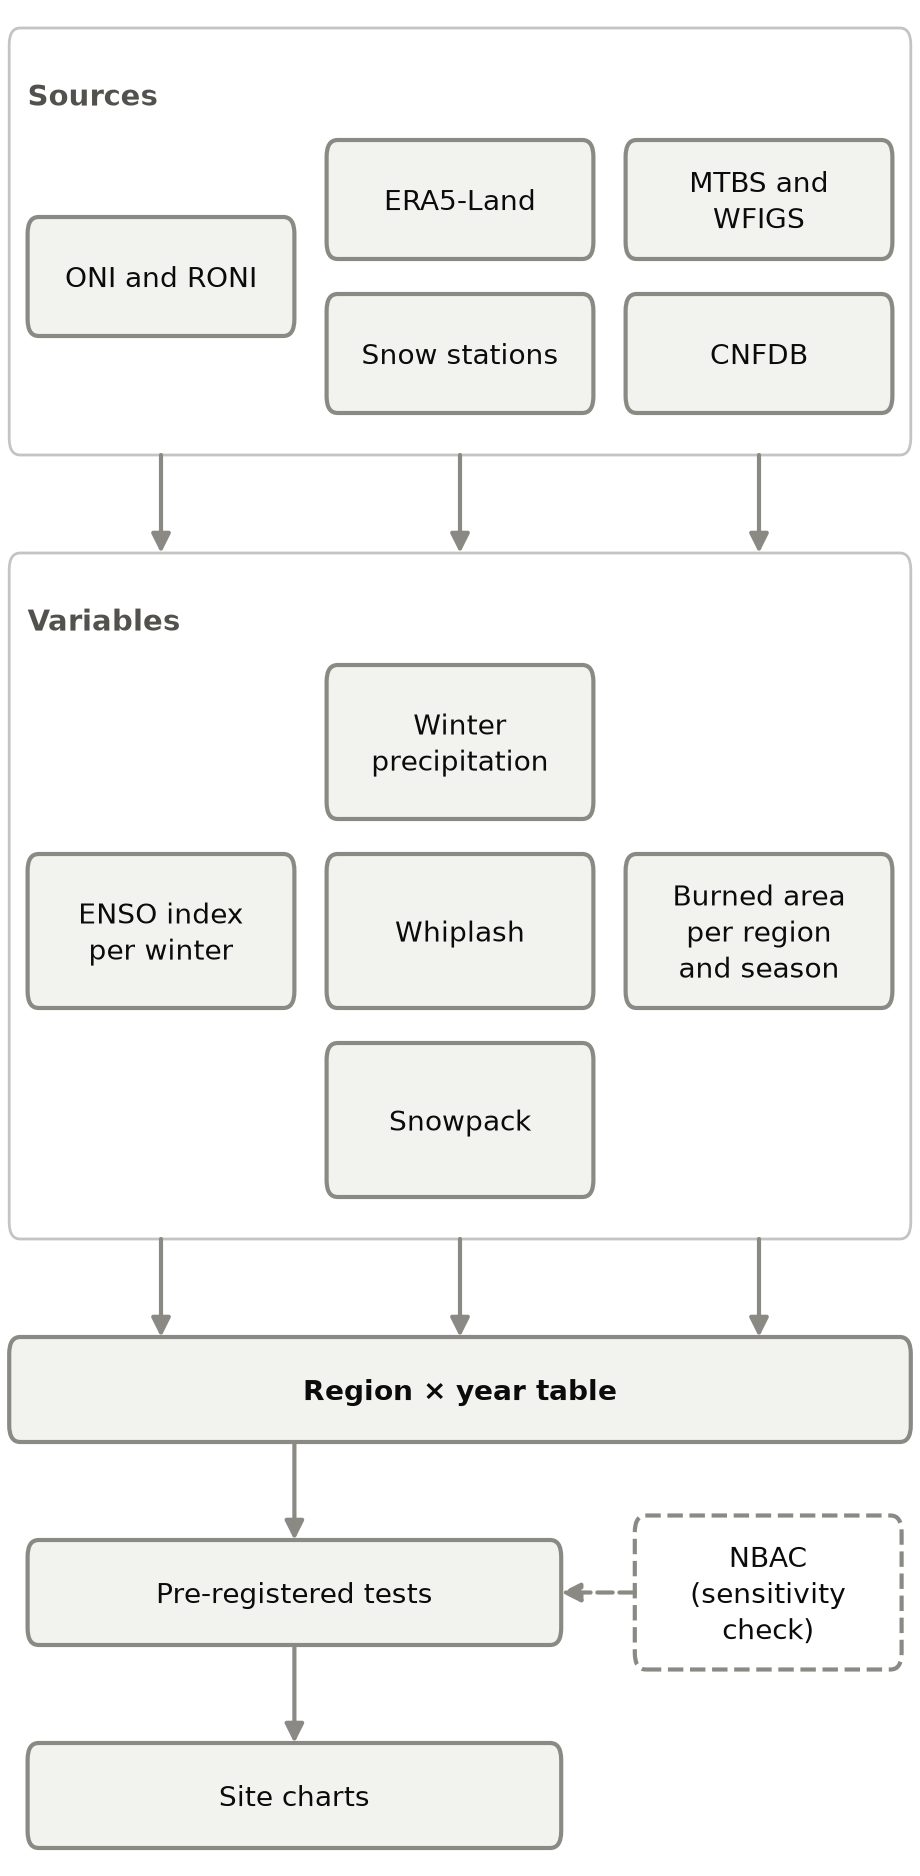
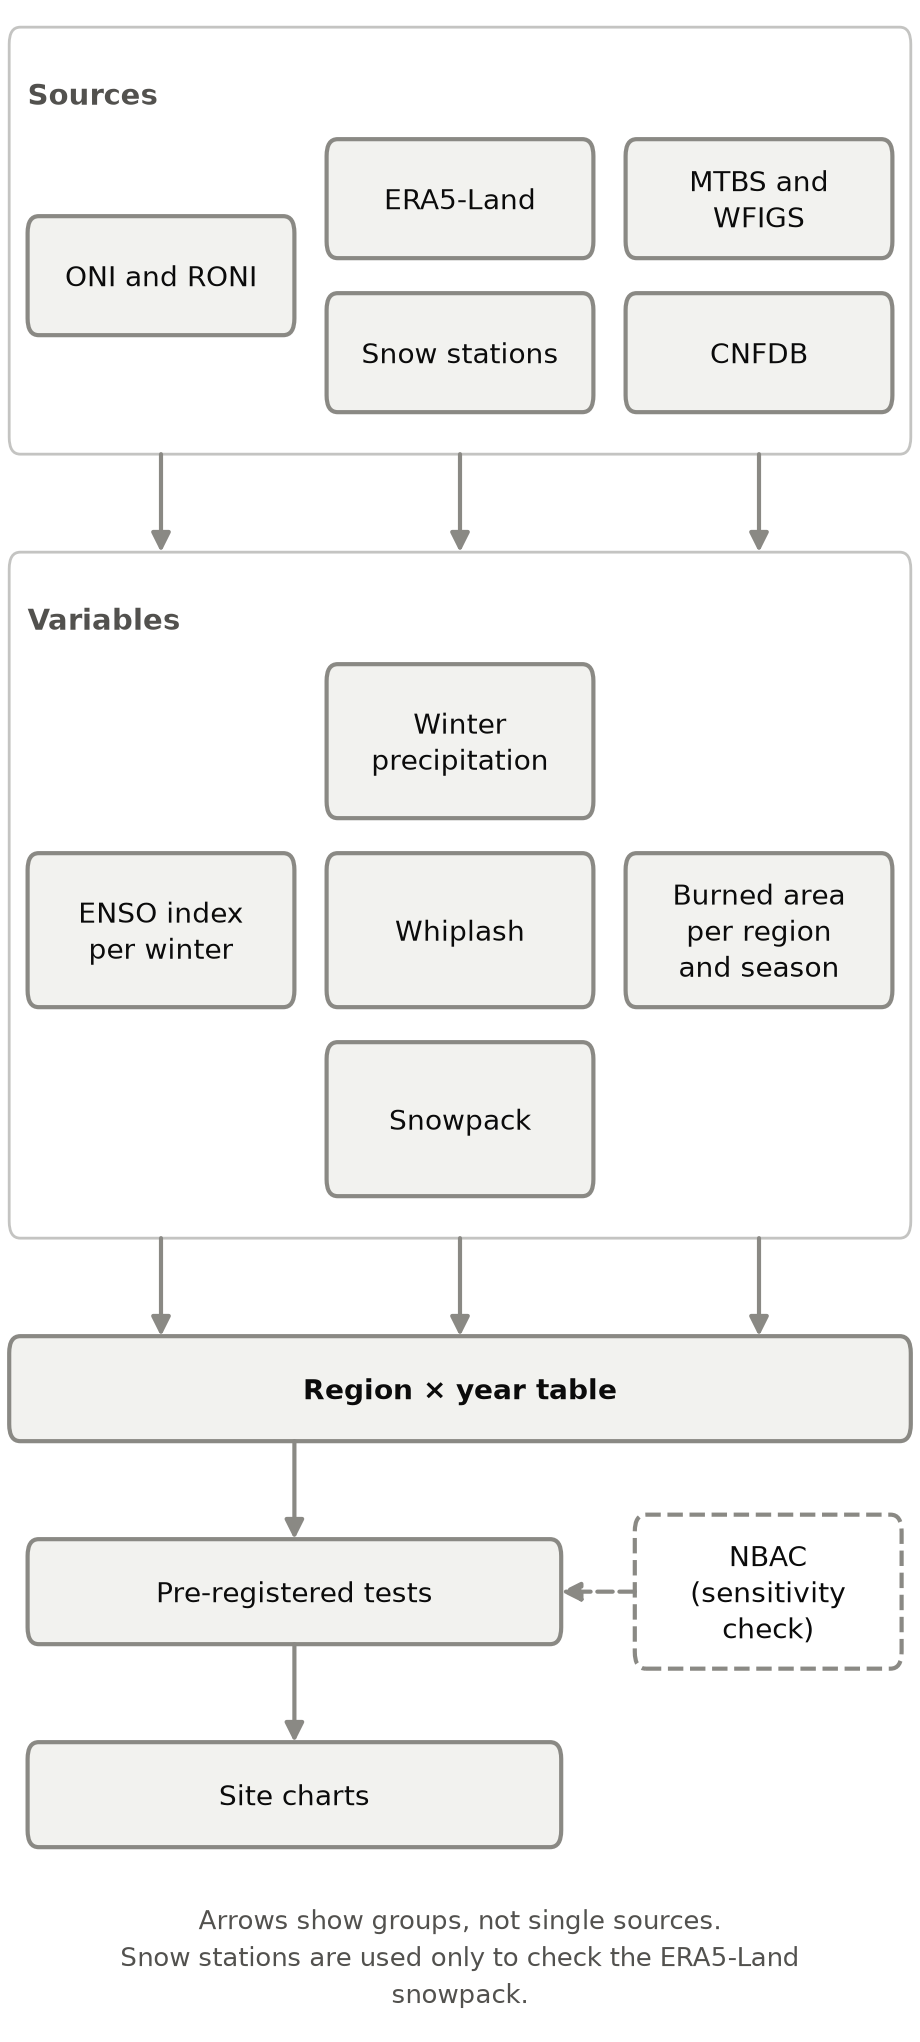
Methods flowchart: owner-approved note under the chart
Prints 'Arrows show groups, not single sources. Snow stations are used
only to check the ERA5-Land snowpack.' in both layouts; test, alt text
and DECISIONS.md entry updated.

diff --git a/src/diagrams.py b/src/diagrams.py
@@ -91,6 +91,10 @@ FLOW_COLUMNS = (
 FLOW_SPINE = ("Region × year table", "Pre-registered tests", "Site charts")
 # Drawn dashed, beside the tests it re-runs, not among the main sources.
 FLOW_SENSITIVITY = "NBAC (sensitivity check)"
+# Printed under the chart so the reading of the arrows travels with the
+# image. Wording approved by the owner, 2026-10-11.
+FLOW_NOTES = ("Arrows show groups, not single sources.",
+              "Snow stations are used only to check the ERA5-Land snowpack.")
 
 # Two layouts of the flowchart, in the same units as MECHANISM_LAYOUTS (0-100
 # across, 100 units per `unit_h` inches down). Heights are built from the
@@ -101,12 +105,12 @@ FLOW_LAYOUTS = {
         width=9, unit_h=7, font=12, head_font=12, margin=2, pad=3, head_h=5,
         gap=2.5, stage_gap=7, cols=(17.5, 50, 82.5), box_w=29, src_h=7, var_h=8.5,
         spine_x=50, spine_w=36, spine_h=7.5, side_x=85.5, side_w=25, side_h=12,
-        wrap_box=24, wrap_side=16),
+        wrap_box=24, wrap_side=16, foot_font=10.5, wrap_foot=90, note_gap=4),
     "methods_flow_narrow": dict(
         width=4.6, unit_h=7, font=10, head_font=10.5, margin=2, pad=3, head_h=5,
         gap=2.5, stage_gap=7, cols=(17.5, 50, 82.5), box_w=29, src_h=8.5, var_h=11,
         spine_x=32, spine_w=58, spine_h=7.5, side_x=83.5, side_w=29, side_h=11,
-        wrap_box=13, wrap_side=12),
+        wrap_box=13, wrap_side=12, foot_font=9.5, wrap_foot=50, note_gap=4),
 }
 
 _SVG_HASHSALT = "hydrowhiplash-elnino26"
@@ -261,7 +265,7 @@ def flow_labels() -> list[str]:
     """Every text label on the methods flowchart, in reading order."""
     labels = [FLOW_STAGES[0]] + [s for sources, _ in FLOW_COLUMNS for s in sources]
     labels += [FLOW_STAGES[1]] + [v for _, variables in FLOW_COLUMNS for v in variables]
-    return labels + list(FLOW_SPINE) + [FLOW_SENSITIVITY]
+    return labels + list(FLOW_SPINE) + [FLOW_SENSITIVITY] + list(FLOW_NOTES)
 
 
 def _draw_flow(lay: dict) -> Figure:
@@ -282,7 +286,12 @@ def _draw_flow(lay: dict) -> Figure:
     for _ in FLOW_SPINE:
         spine.append((depth, depth + lay["spine_h"]))
         depth += lay["spine_h"] + lay["stage_gap"]
-    total = depth - lay["stage_gap"] + lay["margin"]
+    # The note sits under the chart; its height follows its line count.
+    note = "\n".join(_wrap(line, lay["wrap_foot"]) for line in FLOW_NOTES)
+    note_h = ((note.count("\n") + 1) * 1.4 * lay["foot_font"] / 72
+              * 100 / lay["unit_h"])
+    total = (depth - lay["stage_gap"] + lay["note_gap"] + note_h
+             + lay["margin"])
 
     fig = Figure(figsize=(lay["width"], total * lay["unit_h"] / 100), facecolor="white")
     ax = fig.add_axes((0, 0, 1, 1))
@@ -327,6 +336,9 @@ def _draw_flow(lay: dict) -> Figure:
          linestyle="dashed")
     _arrow(ax, (lay["side_x"] - lay["side_w"] / 2, tests_y),
            (x + lay["spine_w"] / 2, tests_y), NEUTRAL_EDGE, linestyle="dashed")
+    ax.text(50, lay["margin"] + note_h / 2, note, ha="center", va="center",
+            fontsize=lay["foot_font"], color=INK_MUTED, linespacing=1.4,
+            fontfamily=FONT)
     return fig
 
 
@@ -335,7 +347,8 @@ def methods_flowchart(out_dir: Path = FIGURES) -> list[Path]:
 
     Sources at the top, the variables made from them, the region x year
     table, the pre-registered tests, then the site's charts; NBAC sits
-    beside the tests as a sensitivity source. Structure only: no result,
+    beside the tests as a sensitivity source, and a two-line note under
+    the chart says how to read the arrows. Structure only: no result,
     estimate or data value is drawn, and no data is read. Writes
     methods_flow.* (page width) and methods_flow_narrow.* (phone width).
     Returns the paths written.

diff --git a/tests/test_diagrams.py b/tests/test_diagrams.py
@@ -63,6 +63,14 @@ def test_flowchart_names_every_decided_source_and_variable():
         assert name in text, name
 
 
+def test_flowchart_note_wording():
+    # Owner-approved wording (2026-10-11); a change here needs the owner.
+    assert diagrams.FLOW_NOTES == (
+        "Arrows show groups, not single sources.",
+        "Snow stations are used only to check the ERA5-Land snowpack.")
+    assert diagrams.flow_labels()[-2:] == list(diagrams.FLOW_NOTES)
+
+
 def test_flowchart_labels_carry_no_numbers():
     # Structure only: no result, estimate or data value. The one digit allowed
     # is in the dataset name ERA5-Land.

diff --git a/DECISIONS.md b/DECISIONS.md
@@ -33,9 +33,15 @@ with counts. **Not:** copy edits, routine mechanics, open work (that's
   columns by kind of source.
 - **Decided to draw arrows per group, not per source.** Three columns
   (ENSO index; climate; fire), each a group of sources above the variables
-  made from that group, with one arrow per column. Snow stations feed
-  snowpack only, and that is not shown. Rejected one arrow per source and
+  made from that group, with one arrow per column. Rejected
+  one arrow per source and
   variable pair (eight crossing arrows at phone width).
+- **Decided (owner, 2026-10-11) to print a two-line note under the
+  chart:** "Arrows show groups, not single sources. Snow stations are
+  used only to check the ERA5-Land snowpack." The second sentence follows
+  `ANALYSIS_PLAN.md` H6 ("ERA5-Land April 1 SWE z (station z as the
+  check)"). Printed in the figure, as the mechanism diagram's framing
+  line is, so it travels with the image. Rejected the page caption alone.
 - **Decided to put NBAC beside the pre-registered tests, dashed, not among
   the sources.** Among the sources it would read as part of the main
   burned-area series. Rejected a footnote (the 2026-10-08 entry names it
